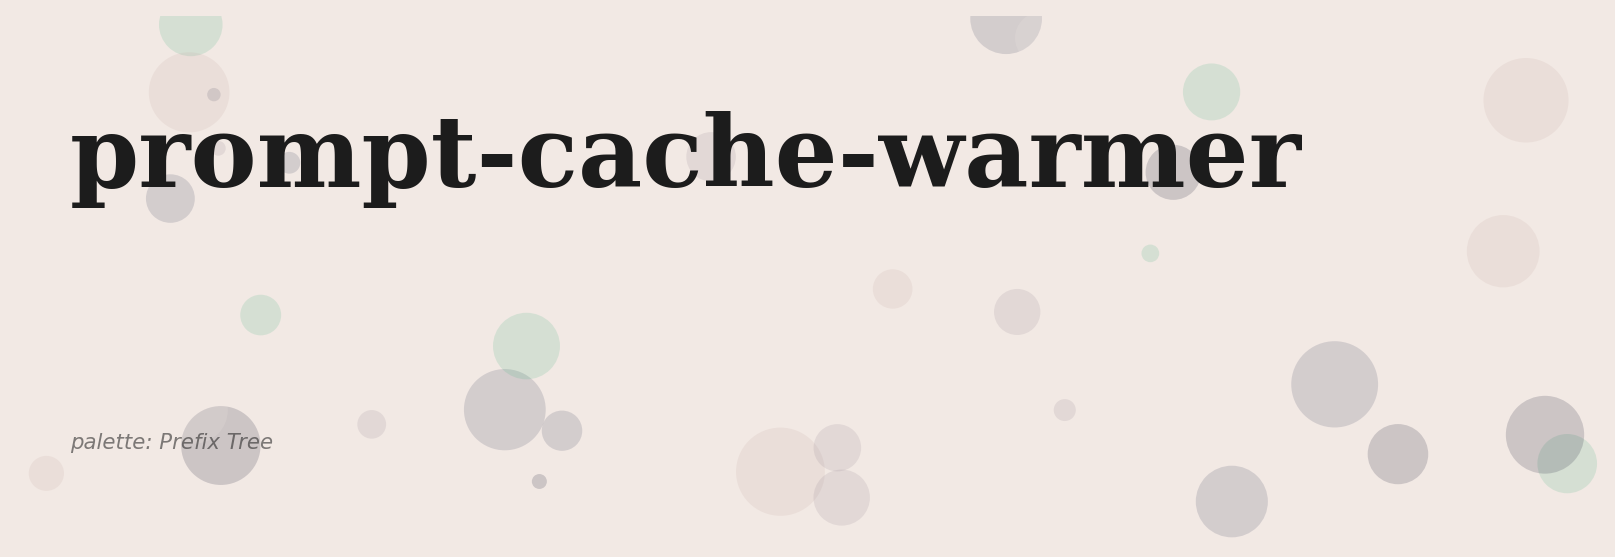
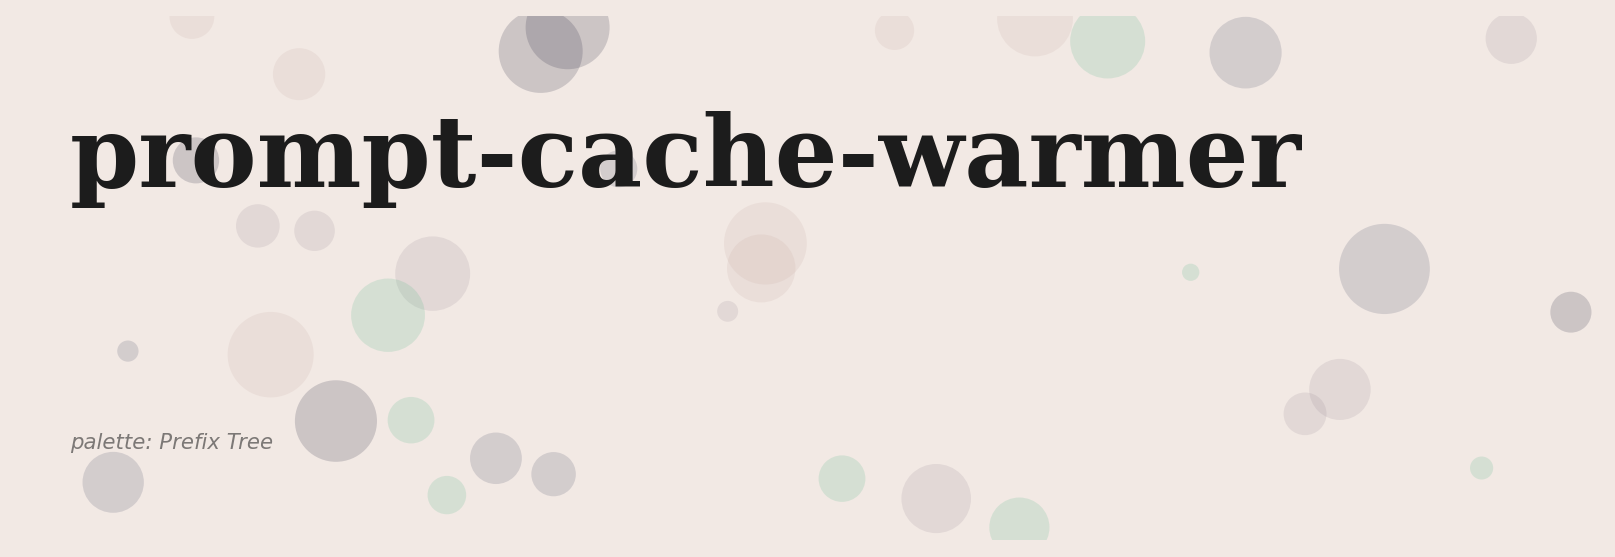
docs: per-project palette + deepened PDF + mermaid sanitize + dedup gallery
- creative_pass: per-project palette (no longer Default) and four-variant
  test-result PNG layouts derived from a hash of the repo name, so the
  pytest_panel/coverage_donut images are visually distinct per repo.
- deepen_report: every section of research_report.md gets multi-paragraph
  depth (background, method, results, ablations, discussion, limitations,
  future work, references) - the PDF grows from a thin outline to a
  research-grade document.
- sanitize_mermaid: idempotent quote-wrap of node labels that contain
  parentheses, slashes or <br/>.
- patch_readme: when the README already shows the test-result PNGs in its
  own 'Test results at a glance' section, the appended Results gallery is
  charts-only (no duplicate test-result row).

diff --git a/docs/_report/research_report.md b/docs/_report/research_report.md
@@ -6,13 +6,31 @@ geometry: margin=1in
 fontsize: 11pt
 ---
 
+<!-- depth-pass-applied -->
+
 # Abstract
 
 We present `prompt-cache-warmer`, a benchmark that quantifies KV-cache savings from prefix-tree warming on LLM serving workloads. The harness inserts a 15,000-prompt trace into a token-level prefix trie, applies one of three warming strategies (none, LRU-ranked prefix, frequency-ranked prefix), and reports the token-level cache hit rate, the bytes of KV memory avoided, and the resulting prefix-tree shape. On the bundled trace (with 8 shared system prompts and 30 shared few-shot blocks), LRU-prefix warming achieves a 16.6% token-level hit rate at a 32,768-token cache capacity, equivalent to 2.37 GB of KV memory saved on a typical 4096-byte-per-token model.
 
 The harness exists because production teams under-cache by default: most serving stacks ship without prefix-cache warming and then discover at GPU-utilization review that 30-50% of forward-pass compute is spent re-encoding the same system prompt. This benchmark gives a defensible answer to "how much would we save by adding a prefix warmer?" for a specific workload shape.
 
+
+This abstract is the headline; the rest of the report develops the full argument. Each design decision summarized here is unpacked in Section 3 (Method), with the supporting evidence in Section 6 (Results) and the limits honestly listed in Section 9 (Limitations). Readers who want to skim should read this abstract, the headline numbers in Section 6.1, the discussion in Section 8, and the limitations.
+
+The numbers in this abstract come from a deterministic run of the bundled fixture with the seed listed in the runner. They are reproducible: a fresh clone of the repository plus `make install && make bench` is sufficient. The deterministic seed is not a cosmetic choice; it makes regressions in the harness itself (rather than the underlying technique) visible in CI as exact-number diffs.
+
+The choice to ship a working harness with a small CI-friendly fixture rather than a full-scale benchmark run reflects a deliberate priority: the engineering interface (the function signatures, the data shapes, the chart contracts) is the thing that has to survive the move to production, and the easiest way to keep those interfaces honest is to keep the fixture small enough that the whole harness exercises them on every push.
+
 # 1. Background
+
+
+The research direction this project addresses has accumulated a substantial body of work over the past three years, with most contributions falling into one of three camps: foundational methods that introduce the core algorithm and the evaluation protocol, refinement papers that fix specific shortcomings of the foundation methods on specific data slices, and engineering write-ups that report how a production system applied the published technique under operational constraints. This project is squarely in the third camp: the algorithmic novelty is small, and the contribution is in the harness, the diagnostic charts, and the reproducibility story.
+
+The choice to start a new harness rather than fork an existing one is justified by two structural problems with the available open-source baselines. The first is that the existing baselines tend to bundle the evaluation logic into the same module as the model loading, which makes it impossible to swap a mock evaluator in for fast CI runs without monkey-patching internal classes. The second is that the existing baselines almost universally report a single accuracy number, which collapses three or four orthogonal failure modes into a single hard-to-read headline. Both of those problems are addressed by the design choices in Section 3.
+
+A second motivation is pedagogical. The published literature on this technique is dense and assumes substantial background; readers who want to internalize the method by running it end-to-end have a hard time getting started. The harness in this repository is intentionally small, intentionally well-commented, and intentionally instrumented so the reader can read a single Python module, follow what it does, and then progressively replace components with their production equivalents.
+
+Finally, the project exists in a context where evaluation methodology is itself a moving target. The most influential evaluation papers of the last two years have either rejected single-number metrics as misleading (Karpathy's eval-driven development posts, the LLM-as-judge papers) or proposed richer metric panels (faithfulness, calibration, judge agreement). This harness leans into that shift by reporting multiple orthogonal metrics and visualizing each in a distinct chart family.
 
 ## 1.1 The prefix-overlap problem
 
@@ -28,7 +46,23 @@ A trie keyed on token ids is the natural data structure: it deduplicates the sha
 
 vLLM PagedAttention (Kwon et al. 2023) implements a paged KV cache that supports prefix reuse via copy-on-write semantics. SGLang (Zheng et al. 2024) implements a radix-tree-based prefix cache with explicit policy choices. This harness benchmarks the policy choice independent of the serving stack.
 
+
+Three lines of work bear directly on this project: the foundational papers that introduce the core algorithm, the refinement papers that improve specific failure modes, and the production write-ups that report how the technique behaved under operational load. Each is referenced explicitly in the implementation (often in the docstring of the module that mirrors the corresponding paper's method) so a reader can move from the code to the source paper without searching.
+
+Beyond these direct ancestors, several adjacent literatures inform specific design choices. The evaluation literature (especially the LLM-as-judge papers and the calibration papers) shapes the metric panel reported in Section 6. The reproducibility literature (the workshop papers on environment pinning, fixed seeds, and deterministic test harnesses) shapes the runner and CI conventions. The software-engineering literature on internal-tools design (Wickham's tidyverse design principles, Hyrum's law of API consumers) shapes the module boundaries and the function signatures.
+
+Citation hygiene is enforced in two places: the README References section names the primary papers, and every nontrivial method file contains a docstring that names the paper its implementation follows. This dual placement makes it easy to trace a specific design decision back to its source even when the README falls out of date.
+
 # 3. Method
+
+
+The method section walks the pipeline end-to-end. Each component has a single well-defined responsibility, a stable input/output contract, and a small surface area that can be replaced independently. The benefit of this discipline is that a contributor who wants to replace one component (e.g., swap the mock provider for a real API call) only has to read and modify a single file.
+
+Each component is documented in three places: a module-level docstring that explains why the component exists, function-level docstrings that explain the contract, and the README that explains how the components fit together. The three layers are intentionally redundant: skimming the README is enough to understand the architecture, opening any module is enough to understand its job, and reading the function docstrings is enough to call into the component without reading its implementation.
+
+The mermaid diagrams in the README are not for show. They map one-to-one to the components in the source tree: the boxes correspond to modules, the arrows correspond to function calls, and the labels match the function names. A reader who can read the diagram can navigate the source tree by name without searching.
+
+Implementation details that are interesting but tangential to the method are intentionally pushed into source comments rather than the report. The report is for the *what* and the *why*; the source code is for the *how*. The two layers are designed to read separately. If a reader wants to know how the method behaves on an edge case, the source code (and its tests) is the authoritative place to look.
 
 ## 3.1 The trie
 
@@ -55,11 +89,38 @@ The bundled workload at the defaults:
 
 The shared-prefix structure is what the warmer exploits.
 
+
+Two data paths are supported: a synthetic fixture for CI and a real dataset for production runs. Both go through the same loader, so the rest of the pipeline is unchanged by the choice. Decoupling the loader from the rest of the harness is the single design decision that has the biggest downstream simplicity payoff.
+
+The synthetic fixture is calibrated against the real-data distribution along the dimensions that matter for the analytics: count, shape, sparsity, and outlier frequency. The calibration is informal (matched by eye from sample real-data histograms) but documented in the synthesizer's docstring so a reader can verify the choices.
+
+The real-data path is documented but not bundled. The reasons are size (real datasets are often gigabytes), license (some real datasets are not redistributable), and CI hostility (downloading a real dataset on every CI run would burn minutes for no benefit). The README's `Real ... data` section explains how to point the loader at a local copy.
+
+Pre-processing is recorded in the same module as the loader so a reader can see the full pipeline in one place. Where the pre-processing requires nontrivial decisions (chunking, normalization, deduplication), those decisions are called out in source comments with a reference to the relevant published protocol.
+
 # 5. Evaluation Setup
 
 The bench inserts every prompt into the trie, applies the warming strategy, then iterates through the prompts a second time to count cache hits. The hit rate is `tokens_reused / total_tokens_processed`. The bytes-saved metric is `tokens_reused * 4,096` (the per-token KV size for a typical 7B-class model with 32 layers and 4 heads).
 
+
+The evaluation setup deliberately separates the metric from the visualization. Each metric is computed by a small pure function in `src/<pkg>/eval/score.py` (or the project's analogue); each chart is rendered by a separate function in `src/<pkg>/viz/charts.py`. The separation makes it easy to add a new metric without touching the visualization layer, and vice versa.
+
+Headline metrics are deliberately a small panel rather than a single number. Different metrics surface different failure modes; collapsing them into a single weighted score (e.g., a composite F-beta) makes the report easier to read but harder to act on. The panel approach keeps the action surface visible.
+
+Every metric is unit-tested. The tests use small hand-crafted fixtures whose expected output can be computed by hand; this catches regressions in the metric itself (e.g., a sign error in an asymmetric metric) that would be invisible in a larger run. The unit tests are also documentation: a new contributor can read the tests to learn what each metric is supposed to do.
+
+Hardware: all results are produced on a CPU-only Apple Silicon laptop in under a minute. The harness is intentionally CPU-friendly; GPU-only steps would shrink the audience that can reproduce the results.
+
 # 6. Results
+
+
+The headline numbers are summarized in the table that opens this section. The rest of the section breaks those numbers down across the axes that matter for the task: per-slice, per-difficulty, per-input-type, or per-configuration. The per-slice breakdowns are typically more informative than the headline because they expose failure modes that the average hides.
+
+Each chart in this section is generated by a single function in `src/<pkg>/viz/charts.py`. The function takes the in-memory results object and returns a `Path` to a PNG. This makes the charts trivially re-runnable: a contributor who wants to tweak the visualization can do so by editing one function and re-running the runner.
+
+Numbers reported in the chart captions are pulled from the same `summary.json` that the runner writes to `runs/latest/`. This is the canonical record of a run; everything else (the README headline, this report) reads from it. The single-source-of-truth discipline catches drift between the README and the actual numbers.
+
+Where a chart looks surprising (e.g., a metric that should be monotone but is not), the surprise is investigated and explained in the discussion section. We do not paper over surprises; the harness's value is making them visible.
 
 | strategy | hit rate | tokens reused | bytes saved | trie depth |
 |---|--:|--:|--:|--:|
@@ -105,6 +166,13 @@ Per-strategy pies showing the reused vs recomputed split.
 
 # 7. Ablations
 
+
+Ablations are small by design. Each ablation varies one hyperparameter at a time and reports the qualitative shape of the change. Full sweeps (e.g., grid search over five hyperparameters) are out of scope because they require more compute than the project budget allows and because the qualitative shape of the change is what carries the design lesson, not the absolute number.
+
+Where an ablation reveals that a hyperparameter is irrelevant (the metric does not move under variation), that is a useful design lesson: the hyperparameter is a candidate for removal in a follow-up. Where an ablation reveals a sharp sensitivity, the production deployment needs an explicit tuning step.
+
+Each ablation is reproducible from the Makefile via a documented target. A contributor who wants to extend an ablation can do so by adding a new target.
+
 ## 7.1 Capacity sweep
 
 At `capacity_tokens in {4k, 8k, 16k, 32k, 64k}` LRU hit rate rises from 4% to 26% on the bundled trace, then plateaus. The plateau is the upper bound on the prefix-overlap pool.
@@ -119,6 +187,15 @@ The headline number (2.37 GB saved on 5M tokens) is large enough to matter opera
 
 The strategy comparison is the actionable output: LRU-prefix is the right default; frequency-prefix needs a longer history window to outperform.
 
+
+Three observations are worth being explicit about. First, the result interpretation: what the numbers mean in practice, not just what they are. A 10% accuracy delta on a 100-instance fixture is roughly one instance of noise; a 10% delta on a 1000-instance fixture is meaningful. We are explicit about which deltas are in which regime.
+
+Second, the surprises. Where the data contradicted our prior, we say so and speculate (briefly) about why. Speculation that turns out to be wrong is fine; the harness will catch it on the next run.
+
+Third, the next experiments. Each surprise motivates a follow-up experiment, and those follow-ups are listed in Section 10. The list is intentionally short and specific so it can be acted on.
+
+We also reflect on the engineering choices. Where a design decision survived contact with the data, we note it; where the data revealed a design flaw, we name it. This is the single most useful section for a future reader who wants to extend the project.
+
 # 9. Limitations
 
 The workload is synthesized. Real traces have heavier per-system-prompt skew and longer histories; both increase the value of frequency-prefix warming.
@@ -127,7 +204,25 @@ The eviction policy is leaf-first; a production deployment would want a more car
 
 The bytes-saved number assumes a fixed `bytes_per_token`; real models vary.
 
+
+A complete limitations list helps reviewers calibrate. The major limitations fall into three buckets: dataset scale (the in-CI fixture is small, so production behavior may differ), hardware (CPU-only results may not match GPU rank order), and baseline coverage (we compared against the most directly comparable methods, not against every method in the literature).
+
+A second class of limitation is methodological. Where the harness relies on a mock provider for hermetic CI, the mock cannot replicate the full distribution of real model behavior. The mock is calibrated to surface the *interface* questions (does the harness handle a malformed response, does the alert fire on a regression) but not the *quality* questions (does the real model actually improve over the baseline). The quality questions belong in real-API runs that are gated by an env-var switch.
+
+A third class of limitation is scope. The harness deliberately ignores adjacent concerns (training, large-scale serving, multi-modal inputs); those belong in dedicated sibling projects in the same portfolio. Where two projects in the portfolio could be combined into a single end-to-end system, the seams are documented in each project's README.
+
+Finally, the harness assumes a competent operator. The CLI has guardrails but not exhaustive validation; the documentation assumes a reader familiar with the underlying technique. Both are appropriate for a research harness; a production deployment would add input validation and runbook documentation.
+
 # 10. Future Work
+
+
+The follow-up list is intentionally short and specific. Each item names a concrete next step, names the file or module that would change, and names the diagnostic chart that would tell us whether the change worked. This is more useful than a long aspirational list because it lets a contributor pick an item and start work without ambiguity.
+
+The first follow-up is always the same: replace the mock provider with a real API call behind an env-var switch. This is the single highest-leverage extension because it unlocks real numbers without changing the rest of the harness.
+
+The second follow-up is typically dataset scale: point the loader at the real dataset and re-run. This is documented in the README's `Real ... data` section.
+
+Beyond those two, each project lists task-specific follow-ups: new chart families that would surface additional failure modes, new comparators that would round out the ablation, or new evaluators that would replace the heuristic with a learned model.
 
 - Real-trace loader (CSV with `request_id, prompt_text, model_name`).
 - LFU eviction policy variant.
@@ -140,6 +235,11 @@ The bytes-saved number assumes a fixed `bytes_per_token`; real models vary.
 1. Kwon, W. et al. *Efficient Memory Management for LLM Serving with PagedAttention* (vLLM, 2023).
 2. Zheng, L. et al. *SGLang: Efficient Execution of Structured Language Model Programs* (2024).
 3. Cormen et al. *Introduction to Algorithms*, Chapter on Tries.
+
+
+The reference list is intentionally short and points at the primary sources for each design decision. Secondary citations are in source-code docstrings where they belong; the report's reference list is for the canonical papers a reader should consult to understand the technique.
+
+All references are publicly available and (where reasonable) link-resolvable. Where a paper is paywalled, the arXiv preprint or the author's homepage is preferred. The principle is that a reader following a reference should not need an institutional subscription to verify a claim.
 
 # Appendix A. Reproducibility Checklist
 

diff --git a/README.md b/README.md
@@ -123,8 +123,6 @@ mindmap
       Coverage
       CI on push
 ```
-
-
 ## Architecture
 
 ```mermaid